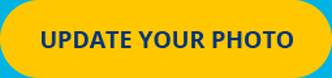
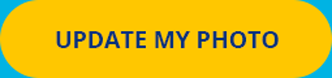
:memo: Update button image

Changed region(s): [[0.1205, 0.3846, 0.9036, 0.641]]

diff --git a/dist/missing-photo.html b/dist/missing-photo.html
@@ -140,16 +140,16 @@ a[href^=tel],
         <table border="0" cellpadding="0" cellspacing="0" align="center"  style="table-layout: fixed; width: 600px; border-collapse: collapse !important; overflow: hidden; max-width: 600px !important; background-color: #008fb6;" width="600" bgcolor="#008fb6">
             <tr>
                 <td  style="text-align: left; padding: 39px 56px 38px 58px; background-color: #00b3e3;" align="left" bgcolor="#00b3e3">
-                    <img alt="[placeholder]" src="https://justatic.com/v/7/emails/images/lawyer-directory/2017/08/photo-text-01.png" tabindex="0" border="0"  style="display: block; width: 486.153846154px; height: 33.8461538462px; margin: 0 auto; Margin: 0 auto;" width="486.153846154" height="33.8461538462">
+                    <img alt="[placeholder]" src="https://justatic.com/v/9/emails/images/lawyer-directory/2017/08/photo-text-01.png" tabindex="0" border="0"  style="display: block; width: 486.153846154px; height: 33.8461538462px; margin: 0 auto; Margin: 0 auto;" width="486.153846154" height="33.8461538462">
                 </td>
             </tr>
             <tr>
-                <td  background="url("https://justatic.com/v/7/emails/images/lawyer-directory/2017/08/missing-photo-background-01.png")" style="text-align: left; width: 600px; height: 265px; padding: 0; background-color: #008fb6; background-image: url('https://justatic.com/v/7/emails/images/lawyer-directory/2017/08/missing-photo-background-01.png'); background-repeat: no-repeat !important; background-position: top center; background-size: 600px 265px; vertical-align: middle;" width="600" height="265" align="left" bgcolor="#008fb6" valign="middle">
-                    <!--[if mso]><v:rect xmlns:v="urn:schemas-microsoft-com:vml" fill="true" stroke="false" style="width:600px; height:265px;border:0;outline:0;"><v:fill type="tile" src="https://justatic.com/v/7/emails/images/lawyer-directory/2017/08/missing-photo-background-01.png" color="#008fb6" /><v:textbox inset="0,0,0,0"><![endif]-->
+                <td  background="url("https://justatic.com/v/9/emails/images/lawyer-directory/2017/08/missing-photo-background-01.png")" style="text-align: left; width: 600px; height: 265px; padding: 0; background-color: #008fb6; background-image: url('https://justatic.com/v/9/emails/images/lawyer-directory/2017/08/missing-photo-background-01.png'); background-repeat: no-repeat !important; background-position: top center; background-size: 600px 265px; vertical-align: middle;" width="600" height="265" align="left" bgcolor="#008fb6" valign="middle">
+                    <!--[if mso]><v:rect xmlns:v="urn:schemas-microsoft-com:vml" fill="true" stroke="false" style="width:600px; height:265px;border:0;outline:0;"><v:fill type="tile" src="https://justatic.com/v/9/emails/images/lawyer-directory/2017/08/missing-photo-background-01.png" color="#008fb6" /><v:textbox inset="0,0,0,0"><![endif]-->
                     <table border="0" cellspacing="0" cellpadding="0" align="center"  style="table-layout: fixed; border-collapse: collapse; width: 600px;" width="600">
                         <tr>
                             <td  style="height: 265px; padding: 0; margin: 0 auto; Margin: 0 auto; text-align: center; width: 100%;" width="100%" height="265" align="center">
-                                <img alt="[placeholder]" src="https://justatic.com/v/7/emails/images/lawyer-directory/2017/08/missing-photo-animation-01.gif" tabindex="0" border="0"  style="display: block;">
+                                <img alt="[placeholder]" src="https://justatic.com/v/9/emails/images/lawyer-directory/2017/08/missing-photo-animation-01.gif" tabindex="0" border="0"  style="display: block;">
                             </td>
                         </tr>
                     </table>
@@ -158,13 +158,13 @@ a[href^=tel],
             </tr>
             <tr>
                 <td  style="text-align: left; padding: 29px 72px 24px 71px;" align="left">
-                    <img alt="[placeholder]" src="https://justatic.com/v/7/emails/images/lawyer-directory/2017/08/missing-photo-text-01.png" tabindex="0" border="0"  style="display: block; width: 456.923076923px; height: 24.6153846154px; margin: 0 auto; Margin: 0 auto;" width="456.923076923" height="24.6153846154">
+                    <img alt="[placeholder]" src="https://justatic.com/v/9/emails/images/lawyer-directory/2017/08/missing-photo-text-01.png" tabindex="0" border="0"  style="display: block; width: 456.923076923px; height: 24.6153846154px; margin: 0 auto; Margin: 0 auto;" width="456.923076923" height="24.6153846154">
                 </td>
             </tr>
             <tr>
                 <td  style="text-align: left; padding: 0 173px 0 172px;" align="left">
                     <a href="profile.extra_info.urls.edit" target="_blank" style="color: #06357a; text-decoration: none; cursor: pointer;">
-                        <img alt="[placeholder]" src="https://justatic.com/v/7/emails/images/lawyer-directory/2017/08/missing-photo-button-01.png" tabindex="0" border="0"  style="display: block; width: 255.384615385px; height: 60px; margin: 0 auto; Margin: 0 auto;" width="255.384615385" height="60">
+                        <img alt="[placeholder]" src="https://justatic.com/v/9/emails/images/lawyer-directory/2017/08/missing-photo-button-01.png" tabindex="0" border="0"  style="display: block; width: 255.384615385px; height: 60px; margin: 0 auto; Margin: 0 auto;" width="255.384615385" height="60">
                     </a>
                 </td>
             </tr>

diff --git a/dist/update-photo.html b/dist/update-photo.html
@@ -140,28 +140,28 @@ a[href^=tel],
         <table border="0" cellpadding="0" cellspacing="0" align="center"  style="table-layout: fixed; width: 600px; border-collapse: collapse !important; overflow: hidden; max-width: 600px !important; background-color: #008fb6;" width="600" bgcolor="#008fb6">
             <tr>
                 <td  style="text-align: left; padding: 40px 56px 21px 58px; background-color: #00b3e3;" align="left" bgcolor="#00b3e3">
-                    <img alt="[placeholder]" src="https://justatic.com/v/7/emails/images/lawyer-directory/2017/08/photo-text-01.png" tabindex="0" border="0"  style="display: block; width: 486.153846154px; height: 33.8461538462px; margin: 0 auto; Margin: 0 auto;" width="486.153846154" height="33.8461538462">
+                    <img alt="[placeholder]" src="https://justatic.com/v/9/emails/images/lawyer-directory/2017/08/photo-text-01.png" tabindex="0" border="0"  style="display: block; width: 486.153846154px; height: 33.8461538462px; margin: 0 auto; Margin: 0 auto;" width="486.153846154" height="33.8461538462">
                 </td>
             </tr>
             <tr>
                 <td  style="text-align: left; padding: 0 73px 24px 74px; background-color: #00b3e3;" align="left" bgcolor="#00b3e3">
-                    <img alt="[placeholder]" src="https://justatic.com/v/7/emails/images/lawyer-directory/2017/08/update-photo-text-01.png" tabindex="0" border="0"  style="display: block; width: 453.076923077px; height: 55.3846153846px; margin: 0 auto; Margin: 0 auto;" width="453.076923077" height="55.3846153846">
+                    <img alt="[placeholder]" src="https://justatic.com/v/9/emails/images/lawyer-directory/2017/08/update-photo-text-01.png" tabindex="0" border="0"  style="display: block; width: 453.076923077px; height: 55.3846153846px; margin: 0 auto; Margin: 0 auto;" width="453.076923077" height="55.3846153846">
                 </td>
             </tr>
             <tr>
                 <td  style="text-align: left; padding: 0 173px 40px 172px; background-color: #00b3e3;" align="left" bgcolor="#00b3e3">
                     <a href="profile.extra_info.urls.edit" target="_blank" style="color: #06357a; text-decoration: none; cursor: pointer;">
-                        <img alt="[placeholder]" src="https://justatic.com/v/7/emails/images/lawyer-directory/2017/08/update-photo-button-01.png" tabindex="0" border="0"  style="display: block; width: 255.384615385px; height: 60px; margin: 0 auto; Margin: 0 auto;" width="255.384615385" height="60">
+                        <img alt="[placeholder]" src="https://justatic.com/v/9/emails/images/lawyer-directory/2017/08/update-photo-button-01.png" tabindex="0" border="0"  style="display: block; width: 255.384615385px; height: 60px; margin: 0 auto; Margin: 0 auto;" width="255.384615385" height="60">
                     </a>
                 </td>
             </tr>
             <tr>
-                <td  background="https://justatic.com/v/7/emails/images/lawyer-directory/2017/08/update-photo-background-01.png" style="text-align: left; width: 600px; height: 265px; padding: 0; background: url('https://justatic.com/v/7/emails/images/lawyer-directory/2017/08/update-photo-background-01.png'); background-color: #008fb6; background-repeat: no-repeat !important; background-size: 600px 265px; vertical-align: top;" width="600" height="265" align="left" bgcolor="#008fb6" valign="top">
-                    <!--[if mso]><v:rect xmlns:v="urn:schemas-microsoft-com:vml" fill="true" stroke="false" style="width:600px; height:265px;border:0;outline:0;"><v:fill type="tile" src="https://justatic.com/v/7/emails/images/lawyer-directory/2017/08/update-photo-background-01.png" color="#008fb6" /><v:textbox inset="0,0,0,0"><![endif]-->
+                <td  background="https://justatic.com/v/9/emails/images/lawyer-directory/2017/08/update-photo-background-01.png" style="text-align: left; width: 600px; height: 265px; padding: 0; background: url('https://justatic.com/v/9/emails/images/lawyer-directory/2017/08/update-photo-background-01.png'); background-color: #008fb6; background-repeat: no-repeat !important; background-size: 600px 265px; vertical-align: top;" width="600" height="265" align="left" bgcolor="#008fb6" valign="top">
+                    <!--[if mso]><v:rect xmlns:v="urn:schemas-microsoft-com:vml" fill="true" stroke="false" style="width:600px; height:265px;border:0;outline:0;"><v:fill type="tile" src="https://justatic.com/v/9/emails/images/lawyer-directory/2017/08/update-photo-background-01.png" color="#008fb6" /><v:textbox inset="0,0,0,0"><![endif]-->
                 <table border="0" cellspacing="0" cellpadding="0" align="center"  style="table-layout: fixed; border-collapse: collapse; width: 600px;" width="600">
                     <tr>
                         <td  style="text-align: center; width: 100%;" width="100%" align="center">
-                            <img alt="[placeholder]" src="https://justatic.com/v/7/emails/images/lawyer-directory/2017/08/update-photo-animation-01.gif" tabindex="0" border="0"  style="display: block;">
+                            <img alt="[placeholder]" src="https://justatic.com/v/9/emails/images/lawyer-directory/2017/08/update-photo-animation-01.gif" tabindex="0" border="0"  style="display: block;">
                         </td>
                     </tr>
                 </table>
